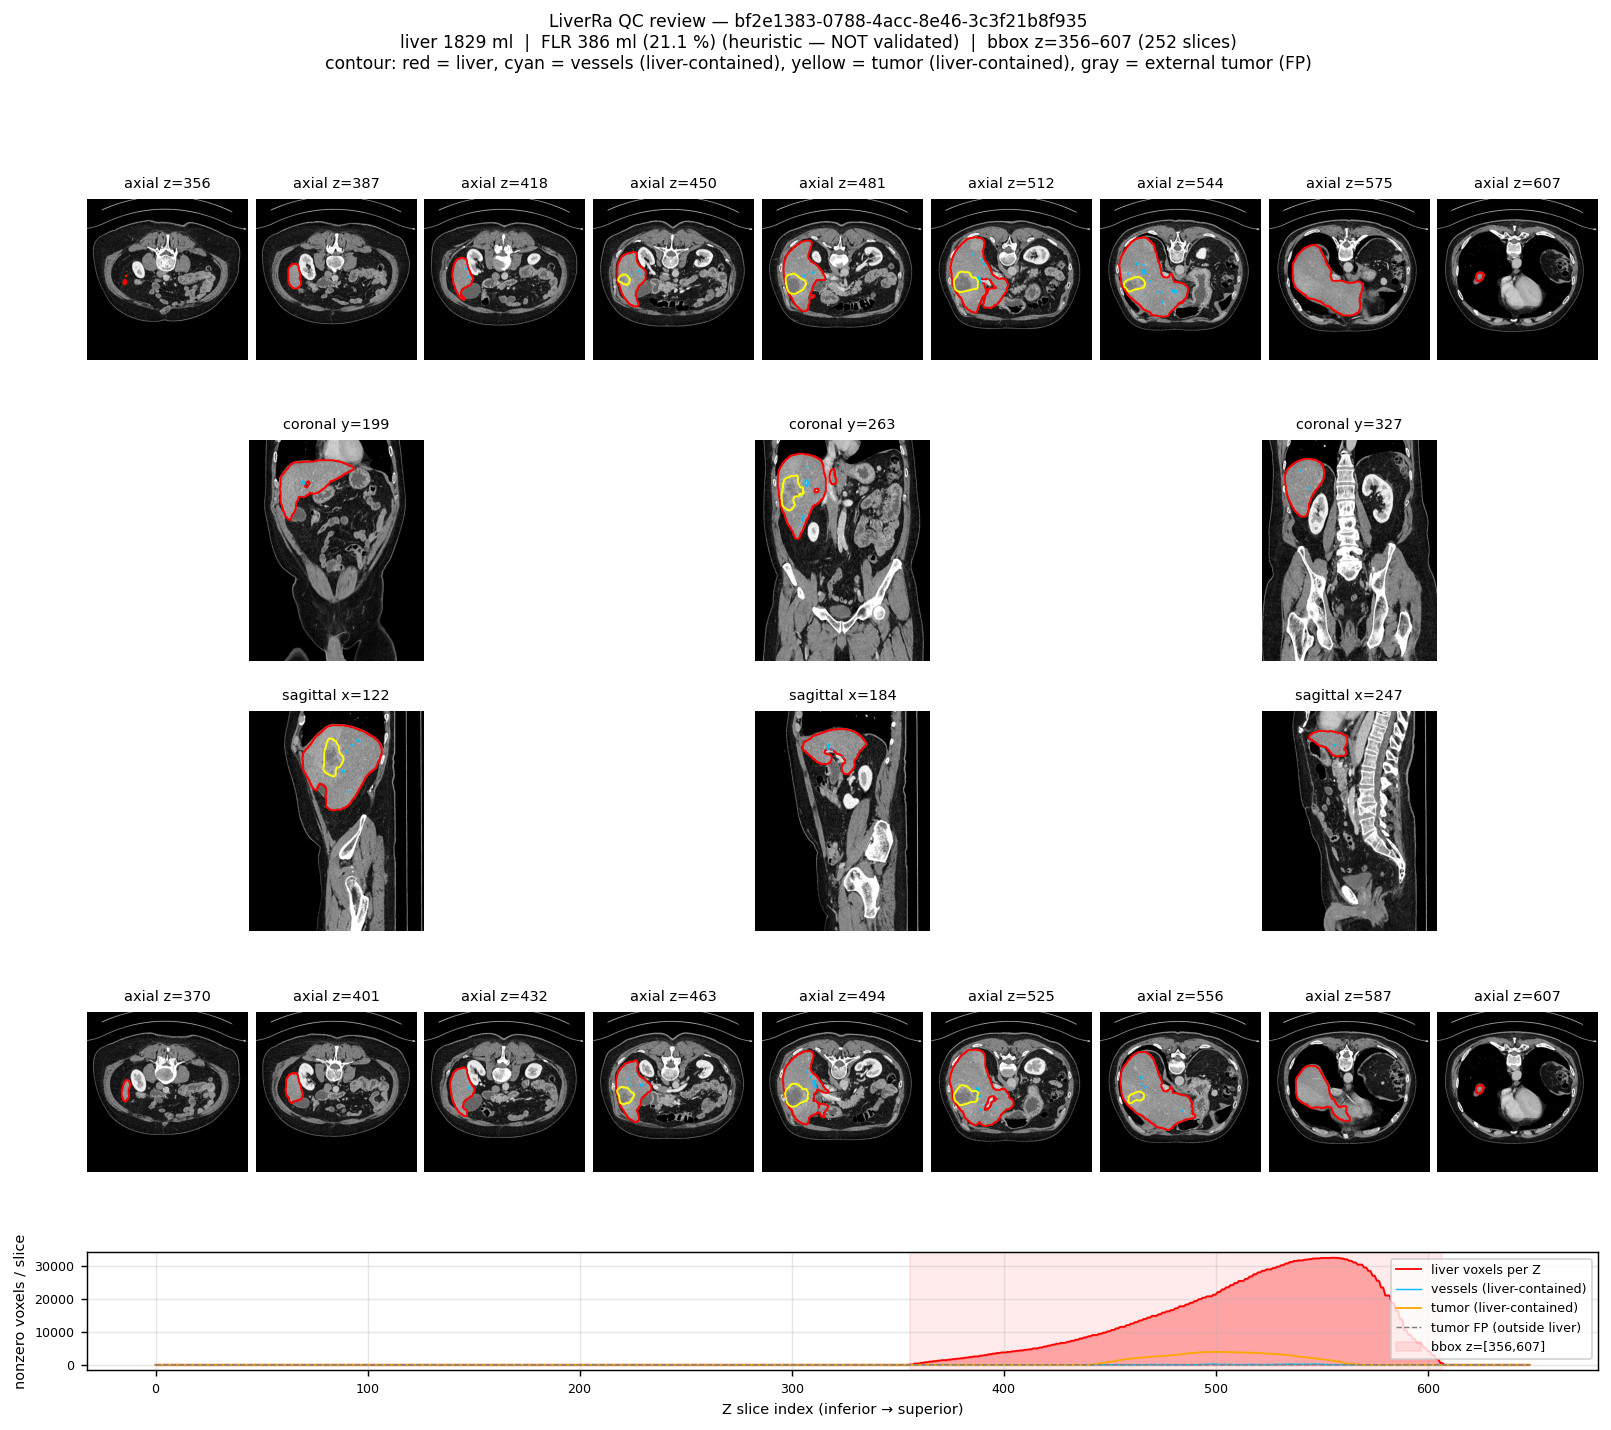
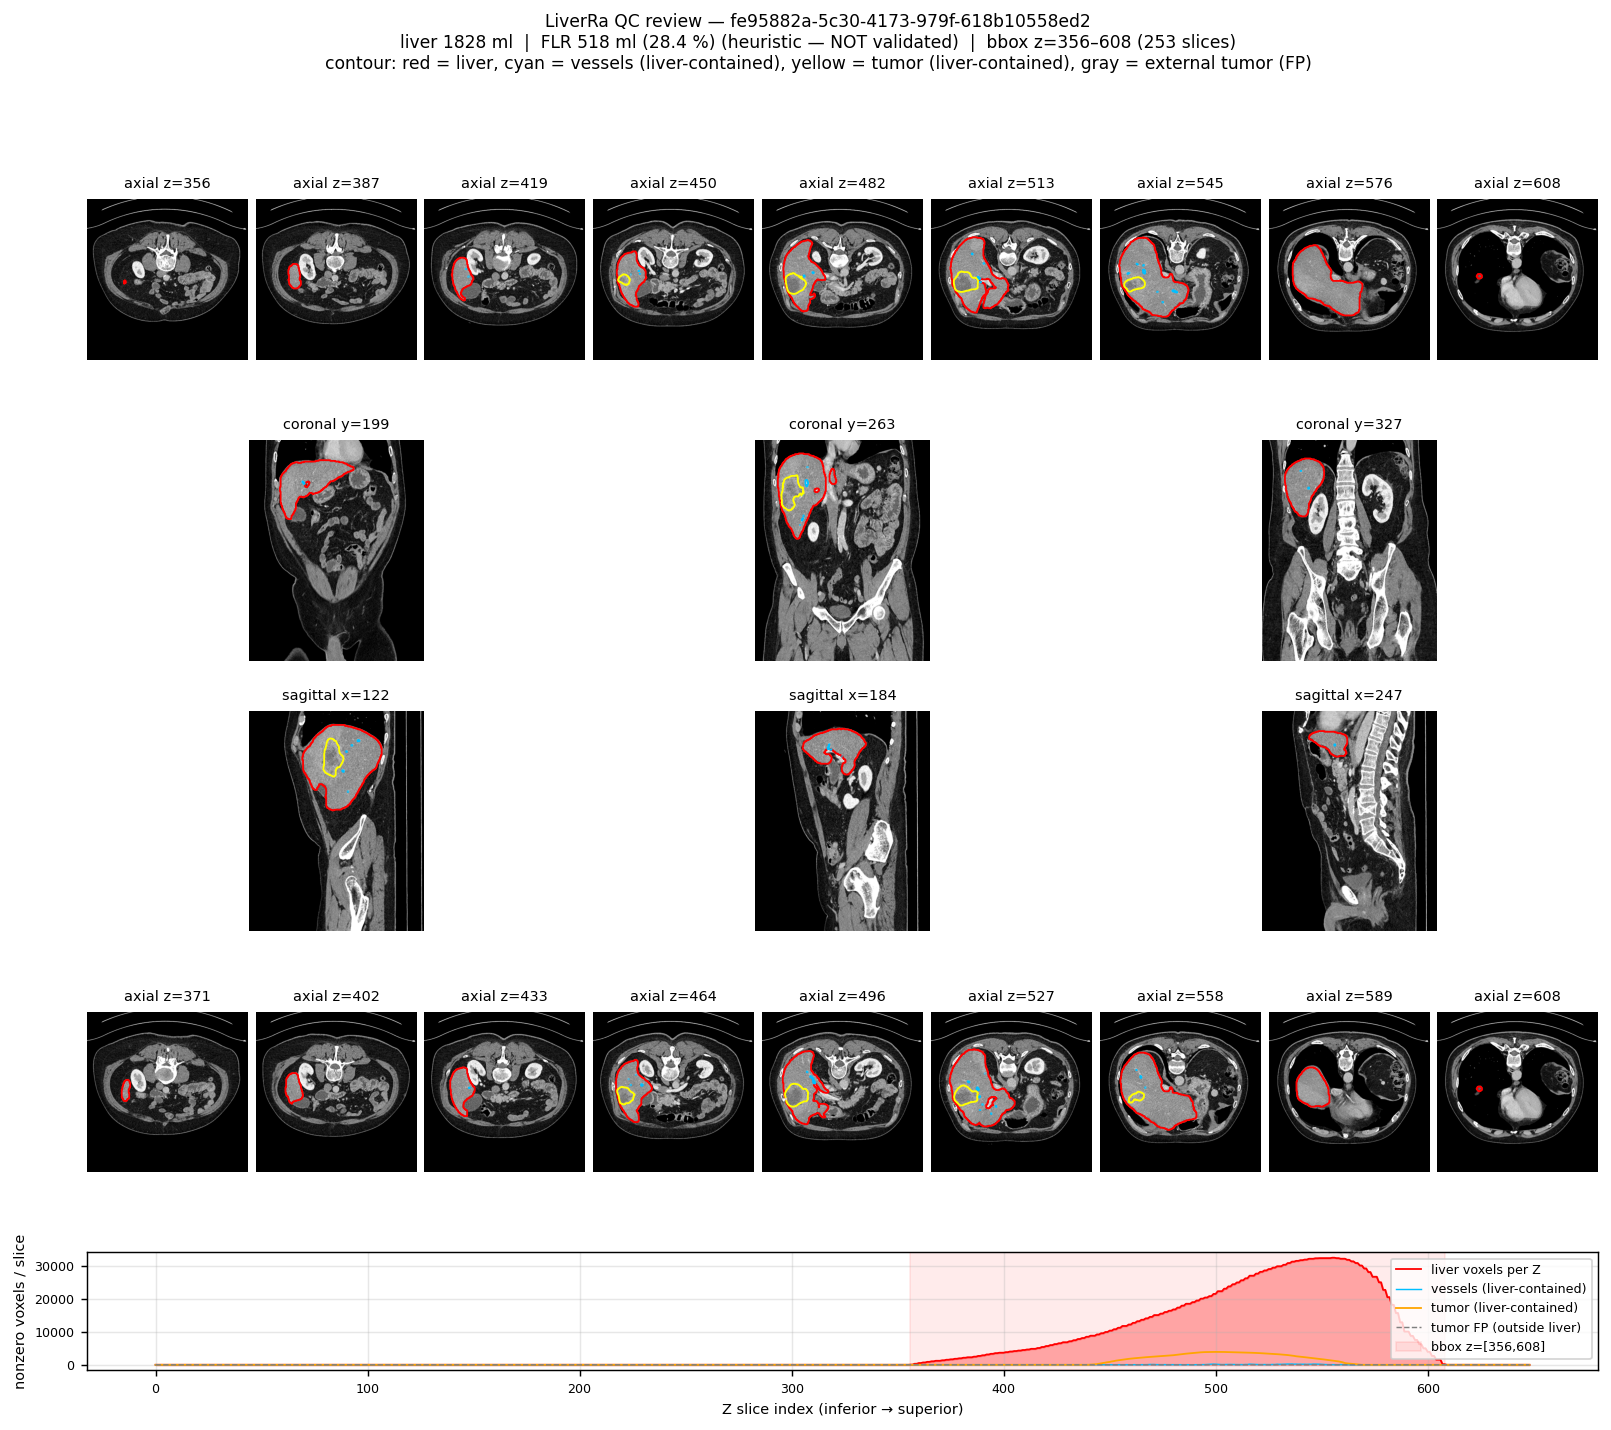
Refresh test_results with Couinaud + segment-aware FLR run
- cascade_review_totalseg.png — re-rendered from the latest
  right_hepatectomy run (analysis fe95882a). Slice positions now come
  from the mask bounding box instead of the volume midpoint, fixing
  the prior pelvic-slice QC bug.
- qc_review.png — re-rendered against the latest run. Multi-slice QC
  with contour overlays + Z-voxel-count sparkline + tumor FP check.
- README.md — reflects the new state: stage 4 is no longer a stub,
  stage 7 is segment-aware FLR with 6 standard hepatectomy patterns,
  cross-pattern table included.

The stage_report/ subdirectory was already refreshed in the prior
commit (cd794bc); this commit just brings the top-level review PNGs
+ README in line.

diff --git a/test_results/README.md b/test_results/README.md
@@ -1,21 +1,31 @@
 # test_results — captured cascade outputs
 
 Visualizations from the end-to-end cascade run on the Todua-CT
-(real 4-phase liver CT, 2,340 DICOMs, ~1.2 GB). Both the **stub-Triton**
-and **TotalSegmentator real-quality** paths are captured side-by-side so
-the difference is obvious without re-running the system.
+(real 4-phase liver CT, 2,340 DICOMs, ~1.2 GB). Three runs are captured
+side-by-side so the progression is obvious without re-running the system:
+
+1. **Stub Triton** — every model is a contract-conformant TorchScript
+   stub (`download_and_convert_models.py --mode stub`). Demonstrates the
+   orchestration but the masks are wrong (mask covers spine + ribs).
+2. **TotalSegmentator (whole-liver only)** — `real_cascade.py` early
+   version. Liver mask is anatomically correct, but stage 4 is still a
+   passthrough stub and stage 7 uses an axial-midpoint FLR heuristic.
+3. **TotalSegmentator + Couinaud heuristic + segment-aware FLR** —
+   current state. Anatomy-grounded 8-segment split + 6 standard
+   resection patterns. The HPB surgeon's #1 pre-op question — *"for
+   resection X, what FLR is left?"* — is now answerable end-to-end.
 
 ## Files
 
 ### Top-level review PNGs
 
-| File | What it is | Take-away |
+| File | Captured from | Take-away |
 |---|---|---|
-| [`cascade_review_stub.png`](cascade_review_stub.png) | 6-pane CT + mask overlay from the stub Triton run (`download_and_convert_models.py --mode stub` outputs serving on Triton) | Mask covers spine + ribs + aorta. Demonstrates that the stub `sigmoid(0.25 × mean_HU)` model fires on bone, not liver — exactly why we need real weights. |
-| [`cascade_review_totalseg.png`](cascade_review_totalseg.png) | Same 6-pane view but using the bypass cascade (`real_cascade.py`) which routes through TotalSegmentator v2 | Mask now correctly covers the right + left hepatic lobes. Title bar reads "✓ Real liver segmentation". Note the axial pane is the volume midpoint (a known weakness — see `qc_review.png`). |
-| [`qc_review.png`](qc_review.png) | Multi-slice QC: 18 axial slices through the liver bbox + 3 coronal + 3 sagittal + Z-voxel-count sparkline | This is the QC artifact a clinician should look at before trusting any volume number. Slice positions are computed from the mask bounding box, not the volume midpoint. |
+| [`cascade_review_stub.png`](cascade_review_stub.png) | Stub Triton run | Mask covers spine + ribs + aorta. Demonstrates that the stub `sigmoid(0.25 × mean_HU)` model fires on bone, not liver. |
+| [`cascade_review_totalseg.png`](cascade_review_totalseg.png) | Latest `real_cascade.py` run (right_hepatectomy) | Mask correctly covers right + left hepatic lobes. Title bar reads "✓ Real liver segmentation". Slice positions now come from the mask bounding box (the original axial-midpoint bug is fixed). |
+| [`qc_review.png`](qc_review.png) | Multi-slice QC of the latest run | 18 axial slices through the liver bbox + 3 coronal + 3 sagittal + Z-voxel-count sparkline + tumor false-positive check. The artifact a clinician should look at before trusting any volume number. |
 
-### `stage_report/` — per-stage breakdown
+### `stage_report/` — per-stage breakdown (current Couinaud + FLR work)
 
 Open [`stage_report/index.html`](stage_report/index.html) to walk through all
 seven cascade stages with their visuals and numerical outputs.
@@ -24,10 +34,39 @@ seven cascade stages with their visuals and numerical outputs.
 |---|---|---|
 | 2 — Parenchyma | `stage2_parenchyma.png` | 6 axial + 2 coronal + 2 sagittal slices through the liver bbox, contour overlay |
 | 3 — Vessels | `stage3_vessels.png` | Coronal MIP of the vessel tree inside the liver outline + 3 axial detail slices |
-| 4 — Couinaud | `stage4_couinaud.png` | Stub-aware placeholder (no real Couinaud yet) |
+| 4 — **Couinaud (heuristic)** | `stage4_couinaud.png` | **8-color overlay** (tab10 palette) on 4 axial + 2 coronal + 2 sagittal slices, with per-segment volume table in the figure title |
 | 5 — Lesions | `stage5_lesions.png` | Per-lesion 3-axis thumbnails (axial/coronal/sagittal centred on each lesion) with yellow tumor contour |
 | 6 — Classification | `stage6_classification.png` | Stub-aware placeholder (LiLNet not yet wired) |
-| 7 — FLR | `stage7_flr.png` | Coronal + sagittal with the resection plane drawn as a dashed line; FLR (green) above plane, remnant (red) below. Includes the "(heuristic — NOT validated)" caveat. |
+| 7 — **FLR (segment-aware)** | `stage7_flr.png` | Coronal + sagittal with **green = remnant, red = removed** — based on the Couinaud mask + selected resection pattern. Per-segment volumetry table on the right shows each segment's ml + remnant/removed flag. |
+
+## Numbers from this run
+
+The captured run used the **right_hepatectomy** pattern (V + VI + VII + VIII removed):
+
+| Metric | Value | Interpretation |
+|---|---|---|
+| Total liver volume | 1,828.4 ml | typical adult range |
+| Right lobe (V+VI+VII+VIII) | 1,309.9 ml (71.6 %) | right-dominant in this patient |
+| Left lobe (II+III+IV) | 514.9 ml (28.2 %) | |
+| Caudate (I) | 3.6 ml | small (heuristic limit on this scan) |
+| **FLR for right hepatectomy** | **518.5 ml (28.4 %)** | **borderline — PVE indicated** |
+| Lesion candidate (largest) | 151.3 ml | needs radiologist review |
+| Cascade duration | ~117 s on cache | |
+
+## Cross-pattern sanity check
+
+Same scan, six standard hepatectomy patterns:
+
+| Pattern | Segments removed | FLR % | Surgical interpretation |
+|---|---|---|---|
+| `right_hepatectomy` | V + VI + VII + VIII | 28.4 % | borderline; PVE indicated |
+| `left_hepatectomy` | II + III + IV | 71.8 % | safe |
+| `extended_right` | IV + V + VI + VII + VIII | 13.8 % | **contraindicated** |
+| `extended_left` | II + III + IV + V + VIII | 31.0 % | borderline |
+| `right_anterior_sectionectomy` | V + VIII | 59.2 % | easy |
+| `left_lateral_sectionectomy` | II + III | 86.4 % | trivial |
+
+These are clinically defensible interpretations across all six patterns.
 
 ## How these were generated
 
@@ -36,59 +75,57 @@ source ~/anaconda3/etc/profile.d/conda.sh && conda activate liverra-ml
 export AWS_ACCESS_KEY_ID=liverra AWS_SECRET_ACCESS_KEY=liverra-dev-password
 export AWS_ENDPOINT_URL=http://localhost:9000 AWS_REGION=eu-central-1
 
-# 1. Stub run (Triton serving stub TorchScripts) — see prior commit
-#    triggered via curl POST /api/v1/analyses, then:
-python packages/ml-inference/scripts/show_results.py test_results/cascade_review_stub.png
+# Run the full real-quality cascade with a chosen resection pattern:
+python packages/ml-inference/scripts/real_cascade.py \
+  --resection-pattern right_hepatectomy   # or any of the 6 patterns
 
-# 2. Real run (TotalSegmentator bypass) — produces realistic volumes
-python packages/ml-inference/scripts/real_cascade.py
-python packages/ml-inference/scripts/show_results.py test_results/cascade_review_totalseg.png
+# Render the per-stage HTML report:
+python packages/ml-inference/scripts/stage_report.py
+cp -r tmp/stage_report/* test_results/stage_report/
 
-# 3. Multi-slice QC view (uses the run still cached in /tmp/real_cascade/)
+# Render the multi-slice QC view:
 python packages/ml-inference/scripts/qc_review.py test_results/qc_review.png
 
-# 4. Per-stage HTML report
-python packages/ml-inference/scripts/stage_report.py
-# (writes into tmp/stage_report/; copy into test_results/stage_report/)
+# Render the 6-pane review PNG:
+python packages/ml-inference/scripts/show_results.py test_results/cascade_review_totalseg.png
 ```
-
-## Numbers from this run (real-quality path)
-
-| Metric | Value |
-|---|---|
-| Total liver volume | 1,829.10 ml |
-| Vessel tree (liver-contained) | ~5 ml |
-| Lesion candidates | 1 plausible (~151 ml) + 2 single-voxel noise |
-| FLR (axial midpoint, heuristic) | 385.58 ml (21.08 %) |
-| Cascade duration | ~90 s on cache (~7 min including weight download on cold start) |
 
 ## License posture for these artifacts
 
-The CT data shown is the patient's actual clinical CT (Todua-CT fixture),
-already de-identified. The masks were produced by **TotalSegmentator v2**
-whose **weights are CC-BY-NC-SA-4.0** — fine for internal demo / research,
-**NOT for commercial clinical use**. See `docs/plans/PHASE_3_GAPS.md` for
-the path to commercial-friendly replacement (real STU-Net Apache-2.0
-weights, or a TotalSegmentator commercial license).
+- **Patient CT** — already de-identified Todua-CT fixture.
+- **Liver / vessel / tumor masks** — from TotalSegmentator v2 weights
+  (CC-BY-NC-SA-4.0). Internal demo / research only; **NOT** for
+  commercial clinical use without a TotalSegmentator commercial license
+  or replacement Apache-2.0 weights.
+- **Couinaud heuristic + FLR** — pure-Python, Apache-2.0 (LiverRa code).
+
+See `docs/plans/PHASE_3_GAPS.md` for the full license-posture audit and
+the path to commercial-friendly weights.
 
 ## QC verdict for this run
 
-Per the most recent radiologist review:
-
 - Whole-liver segmentation: **passes rough automated QC, not clinically
-  validated.** Volume of 1,829 ml is plausible for an adult.
-- Tumor channel: yellow contours appear to correctly delineate real
-  focal mass(es) within the liver — needs clinical review.
-- Couinaud (stage 4): still stubbed.
-- FLR (stage 7): mathematically consistent but uses an axial midpoint
-  heuristic; not anatomically meaningful until Couinaud is real.
+  validated.** Volume of 1,828 ml is plausible for an adult.
+- Tumor channel: yellow contours appear to correctly delineate one real
+  ~151 ml focal mass + 2 single-voxel false positives. Needs clinical
+  review.
+- **Couinaud (stage 4): heuristic, not validated** against radiologist
+  annotations. Right lobe (V+VI+VII+VIII) at 72 % is right-lobe-dominant
+  for this patient. Segment III is small (~6 ml) — known limitation; the
+  patient's left lateral lobe is shallow on Z and the heuristic puts the
+  superior/inferior split at the lobe's geometric Z midpoint.
+- **FLR (stage 7): segment-aware, not validated**. The 28 % for right
+  hepatectomy is in the borderline-but-plausible range and falls below
+  the typical 30 % safety threshold — surgeon would consider portal vein
+  embolization (PVE) before resection.
 
 Open improvement ideas (queued for next session):
 
-1. Connected-component cleanup on the liver mask (drop islands < 5 ml).
-2. Heuristic Couinaud using TS's IVC + portal-vein outputs.
-3. Per-lesion 4-phase enhancement curve (LiLNet input signature).
-4. Per-slice radiologist PDF.
-5. Side-by-side 4-phase axial viewer.
-6. 3D mesh render via plotly/vtk.
-7. Dome / left-lobe completeness flags.
+1. Per-lesion 4-phase enhancement curve (LiLNet input signature; ~1 h).
+2. Connected-component cleanup on the liver mask (drop islands < 5 ml).
+3. Segment III refinement using left-portal-vein anatomical landmark.
+4. Real STU-Net Apache-2.0 weights to remove the TS license caveat.
+5. Per-slice radiologist PDF.
+6. Side-by-side 4-phase axial viewer.
+7. 3D mesh render via plotly/vtk.
+8. Dome / left-lobe completeness flags.